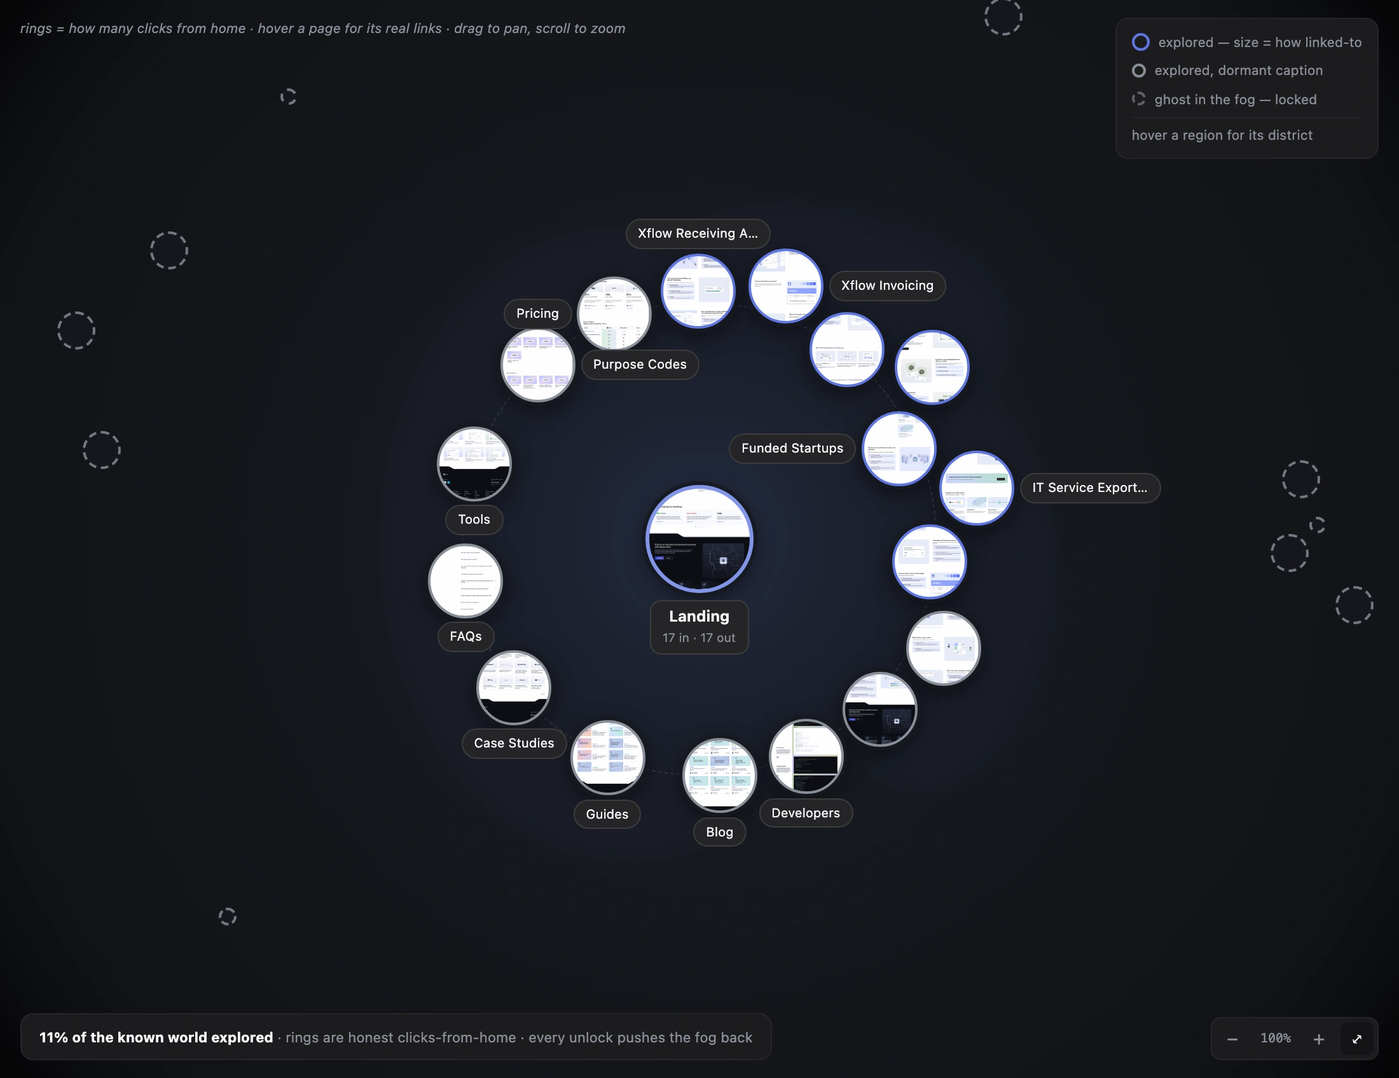
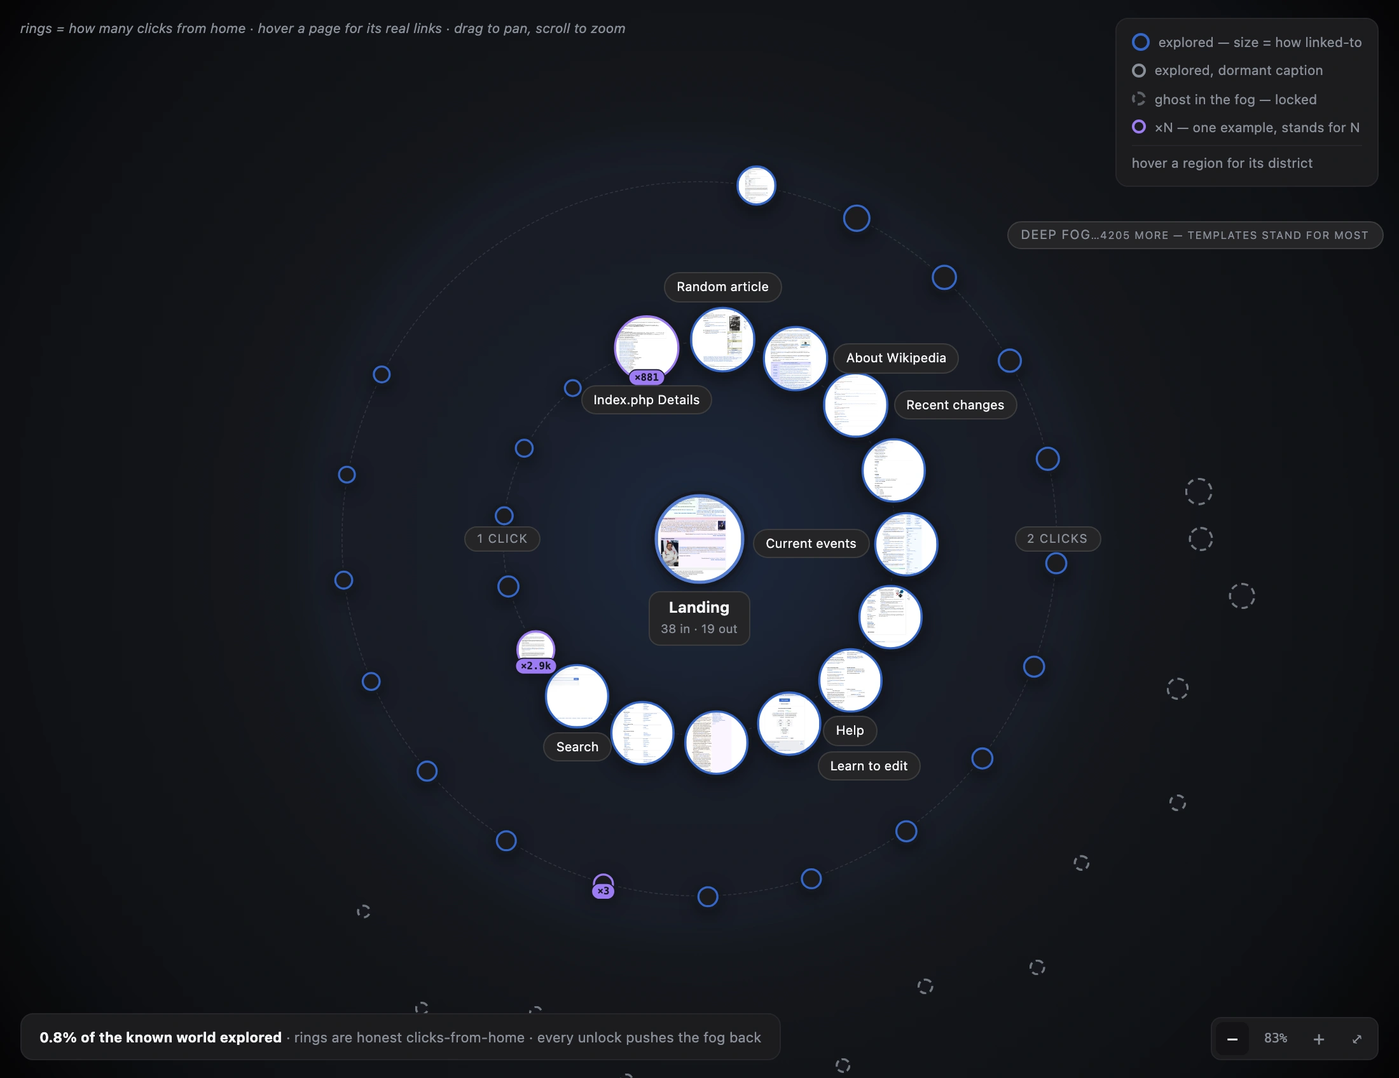
Landing page v1.3: the warm reshoot — wikipedia hero, described tiles (F1-F3)
The describe run took all six showcase workspaces to 100% described, which
removed the one thing keeping xflowpay in the hero slot, and 779ffbb shipped a
new map encoding that every tile now shows.

F1 — the hero is en.wikipedia.org @ 83%. v1.2 kept xflow because wikipedia lost
one of five criteria: "1 of 37 discs wears the accent", caused by described:0,
since the accent rim marks a page whose description exists. That cause is gone
(41/41; 33 of 36 rimmed). wikipedia wins rings, districts and the ghost frontier
outright and ties lamp and fog. Criterion 5 is contested rather than won — xflow
still leads on proportion (100% vs 91.7%) and on accent pixels at its own tier,
while wikipedia leads on absolute accent discs (33 vs 18) and at the matched 83%
tier — so the flip was Prateek's call on the full table, not a clean sweep.

Three of hero-probe.js's five criteria were reading selectors the product no
longer has (lamp, rings, fog), each failing as a silent false negative; v1.2's
fog row was scored by eye, not by the probe it was attributed to. Scored with a
corrected hero-probe2.js. The accent-pixel metric is defined in-tree rather than
inherited, since v1.2's script did not survive.

F2 — all 7 tiles reshot warm; the 5 workspaces that had matched the PRE-commit
package were synced to 779ffbb and rebuilt (descriptions preserved, frontier
totals byte-identical before/after, so no fog shrank when labels moved). Not one
[…]

diff --git a/docs/index.html b/docs/index.html
@@ -281,18 +281,20 @@
 
     </div>
 
-    <!-- The hero map is xflowpay, and v1.2 re-ran the choice rather than inheriting it: with the map-root
-         fix in, wikipedia's 37-page capture finally draws true rings, so both candidates went through the
-         same zoom sweep again. wikipedia wins on structure (two rings, district arcs, a deep-fog chip that
-         xflow's single-ring library cannot produce) and loses on accent presence — measured: 1 of its 37
-         discs wears the product's accent, against 8 of 18 here, because the accent ring marks a page whose
-         description has been written and that workspace has none. Evidence + the head-to-head pair in
-         prds/landing-page-v1.2-populated-BUILD-REPORT.md § F2. -->
+    <!-- The hero map is en.wikipedia.org as of v1.3, and the swap was decided on the same measurement that
+         kept xflow in v1.2. Back then wikipedia won on structure (two rings, district arcs, a deep-fog chip
+         a single-ring library cannot produce) and lost on accent presence: 1 of its 37 discs wore the
+         product's accent against 8 of 18 on xflow — because the accent ring marks a page whose description
+         has been written, and that workspace had none. The describe run removed that cause: it is 41/41
+         now, and 33 of its 36 discs wear the measured Wikipedia blue. The remaining three are the purple
+         ×N covering discs shipped in 779ffbb, not undescribed pages. Criterion 5 is contested rather than
+         won — xflow still leads on proportion (100% vs 91.7%) and on accent pixels at its own tier — and
+         the call to flip was made on that full table, in prds/landing-page-v1.3-warm-BUILD-REPORT.md § F1. -->
     <div class="heroshot">
       <figure class="shot">
         <img src="assets/hero-map.webp" width="2200" height="1696"
-             alt="The kit's dashboard on the Map tab: a real capture of xflowpay.com, with the landing page lit at the centre and seventeen captured pages ringed one click out, each drawn as a disc of its own screenshot, and dashed ghost pages scattered through the fog beyond them. The footer reads '11% of the known world explored · rings are honest clicks-from-home · every unlock pushes the fog back'.">
-        <figcaption>The Map, on a real capture of xflowpay.com — eighteen pages downloaded, one hundred and forty-six still ghosts in the fog. Rings are measured clicks from home.</figcaption>
+             alt="The kit's dashboard on the Map tab: a real capture of en.wikipedia.org, with the landing page lit at the centre reading '38 in · 19 out', and thirty-two further captured pages ringed across two rings labelled one click and two clicks, each drawn as a disc of its own screenshot and rimmed in the Wikipedia blue the kit measured. Three discs instead carry a purple ×N badge — one downloaded example standing for a whole template shape, the largest reading ×2.9k. Fourteen dashed ghost pages sit in the fog beyond, beside a chip reading 'DEEP FOG…4205 MORE — TEMPLATES STAND FOR MOST'. The footer reads '0.8% of the known world explored · rings are honest clicks-from-home · every unlock pushes the fog back'.">
+        <figcaption>The Map, on a real capture of en.wikipedia.org — forty-one pages downloaded, 4,593 still ghosts in the fog. Rings are measured clicks from home.</figcaption>
       </figure>
     </div>
   </section>
@@ -445,11 +447,11 @@
           <div class="body reveal">
             <h3>The working ledger</h3>
             <p class="quote">It borrows your product's own colour — observed, never guessed.</p>
-            <p>A journal down the side of the dashboard: what was captured, what your AI read, what it wrote, what changed. The top slot holds the one move worth making next — here, ten pages have landed that your AI hasn't read yet, so that is what it asks for, with the prompt ready to copy. And the accent the dashboard wears is lifted from the product you captured: the entry names the hex and how many pages it was seen on.</p>
+            <p>A journal down the side of the dashboard: what was captured, what your AI read, what it wrote, what changed. The top slot holds the one move worth making next, and it changes as the work lands — when pages are waiting to be read it asks for that, with the describe prompt ready to copy; here every page has been read, so it has moved on and asks for the first design instead. And the accent the dashboard wears is lifted from the product you captured: the entry names the hex and how many pages it was seen on.</p>
           </div>
           <div class="imgwrap">
-            <span class="fadeb"><img src="assets/tour-ledger.webp" width="680" height="990"
-                 alt="The working ledger: 'Library check — all clean — 3 more notes, nothing needed from you'; then 'NEXT · NEW PAGES WAITING — Let your AI read your 10 new pages', with a 'Copy the describe prompt' button; then 'Borrowed your product's color — #5E76E3, the dashboard now wears it, observed across 4 pages'. The rail continues below the frame."></span>
+            <span class="fadeb"><img src="assets/tour-ledger.webp" width="680" height="1002"
+                 alt="The working ledger: 'Library check — all clean — 3 more notes, nothing needed from you'; then 'NEXT · YOUR AI KNOWS YOUR PRODUCT NOW — Make your first thing — a wireframe on a real page, or a question answered from the library', with 'Copy a wireframe prompt' and 'Ask a question' buttons; then 'Borrowed your product's color — #5E76E3, the dashboard now wears it, observed across 4 pages'. The rail continues below the frame."></span>
           </div>
         </article>
 
@@ -461,58 +463,61 @@
        Seven real workspaces, seven real Map panes, each wearing the accent the kit measured in that
        product's own pages. At tile scale a map is its shape — discs, fog, accent — which is the point:
        nothing here is a mockup of a product, it is the kit's own output on seven different ones.
-       v1.2: all seven re-shot on POPULATED libraries (18–41 pages each, was 7–39), so a tile now shows
-       a full ring and a real frontier rather than a sparse cluster. Six of the seven come from fresh
-       captures in their own landing-shots-* workspaces; flipkart stays on its read-only fixture. Every
-       number in this section — page counts, hexes, percentages — is re-read from those workspaces at
-       build time; see prds/landing-page-v1.2-populated-BUILD-REPORT.md. -->
+       v1.3: all seven re-shot WARM — every one of these libraries is now 100% described (256 pages in
+       total), so the accent rim, which marks a page whose description has been written, is on essentially
+       every disc rather than a handful. The tiles also pick up 779ffbb (covered-shapes): a downloaded page
+       that stands for a template shape now retires that shape's ghost and wears a purple ×N badge instead
+       of the count being drawn twice. espncricinfo shows this hardest — 20 of its 37 discs are badged.
+       Six of the seven come from their own landing-shots-* workspaces; flipkart stays on its read-only
+       fixture. Every number in this section — page counts, badge counts, hexes, percentages — is re-read
+       from those workspaces at build time; see prds/landing-page-v1.3-warm-BUILD-REPORT.md. -->
   <section id="anyproduct">
     <div class="wrap">
       <p class="eyebrow">Any product</p>
       <h2>Seven products, seven maps.</h2>
-      <p class="lede">Point it at what you design for. Seven real captures in seven separate workspaces — a marketplace, a retailer, a sports site, a travel platform, an encyclopedia, a payments product, a developer platform — each dashboard wearing that product's own colour, observed rather than configured. Eighteen to forty-one pages in each library, and each map says out loud how little of its site that is: from eleven per cent down to nine-tenths of one. Same kit, same one script, nothing set per product.</p>
+      <p class="lede">Point it at what you design for. Seven real captures in seven separate workspaces — a marketplace, a retailer, a sports site, a travel platform, an encyclopedia, a payments product, a developer platform — each dashboard wearing that product's own colour, observed rather than configured. Eighteen to forty-one pages in each library, and each map says out loud how little of its site that is: from eleven per cent down to four-fifths of one. Same kit, same one script, nothing set per product.</p>
 
       <ul class="gal">
         <li>
           <img src="assets/tile-flipkart.webp" width="640" height="493"
-               alt="The kit's Map pane on a capture of flipkart.com: thirty-nine page discs in two labelled rings — one click and two clicks from home — around a lit centre, most of them outlined in the measured blue accent, with dashed ghost pages in the fog beyond and a footer reading '3% of the known world explored'.">
+               alt="The kit's Map pane on a capture of flipkart.com: thirty-nine page discs in two labelled rings — one click and two clicks from home — around a lit centre, thirty-three of them outlined in the measured blue accent and six badged ×N, where one downloaded page stands for a whole template shape, with dashed ghost pages in the fog beyond and a footer reading '3% of the known world explored'.">
           <span class="cap"><span class="sw" style="background:#2874F0"></span><b>flipkart.com</b><span class="hex">#2874F0</span></span>
         </li>
         <li>
           <img src="assets/tile-amazon.webp" width="640" height="493"
-               alt="The kit's Map pane on a capture of amazon.in: forty-one page discs packed into a dense ring around a lit centre, each disc its own captured screenshot, a further ring labelled two clicks, dashed ghost pages in the fog, and a footer reading '1% of the known world explored'.">
+               alt="The kit's Map pane on a capture of amazon.in: forty-one page discs packed into a dense ring around a lit centre, each disc its own captured screenshot, thirteen of them badged ×N where one downloaded page stands for a whole template shape, a further ring labelled two clicks, dashed ghost pages in the fog, and a footer reading '1% of the known world explored'.">
           <span class="cap"><span class="sw" style="background:#2162A1"></span><b>amazon.in</b><span class="hex">#2162A1</span></span>
         </li>
         <li>
           <img src="assets/tile-espncricinfo.webp" width="640" height="493"
-               alt="The kit's Map pane on a capture of espncricinfo.com: thirty-seven page discs ringing a lit centre with a second ring labelled two clicks, dashed ghost pages spread through a blue-tinted fog, and a footer reading '3% of the known world explored'.">
+               alt="The kit's Map pane on a capture of espncricinfo.com: thirty-seven page discs ringing a lit centre with a second ring labelled two clicks — twenty of them badged ×N, where one downloaded page stands for a whole template shape, several of those drawn small because few pages link to them, so this map carries a visible scatter of purple among the blue — dashed ghost pages spread through a blue-tinted fog, and a footer reading '3% of the known world explored'.">
           <span class="cap"><span class="sw" style="background:#0860C4"></span><b>espncricinfo.com</b><span class="hex">#0860C4</span></span>
         </li>
         <li>
           <img src="assets/tile-airbnb.webp" width="640" height="493"
-               alt="The kit's Map pane on a capture of airbnb.co.in: thirty-seven page discs ringing a lit centre, a second ring labelled two clicks, dashed ghost pages in the fog — and the whole fog glowing crimson, because that is the accent the kit measured in this product's own pages.">
+               alt="The kit's Map pane on a capture of airbnb.co.in: thirty-four page discs across two rings labelled one click and two clicks, with an arc reading 'not linked from home — 2 pages', eight discs badged ×N where one downloaded page stands for a whole template shape, dashed ghost pages in the fog — and the whole fog glowing crimson, because that is the accent the kit measured in this product's own pages.">
           <span class="cap"><span class="sw" style="background:#DA1249"></span><b>airbnb.co.in</b><span class="hex">#DA1249</span></span>
         </li>
         <li>
           <img src="assets/tile-wikipedia.webp" width="640" height="493"
-               alt="The kit's Map pane on a capture of en.wikipedia.org: thirty-seven page discs, pale because the pages themselves are, ringing a blue-ringed centre, a second ring labelled two clicks, dashed ghost pages in the fog, and a footer reading '0.9% of the known world explored'.">
+               alt="The kit's Map pane on a capture of en.wikipedia.org — the same library the hero shows, at a wider zoom: thirty-six page discs across two rings labelled one click and two clicks, thirty-three rimmed in the measured Wikipedia blue and three badged ×N, the largest reading ×2.9k, dashed ghost pages in the fog, and a footer reading '0.8% of the known world explored'.">
           <span class="cap"><span class="sw" style="background:#3366CC"></span><b>en.wikipedia.org</b><span class="hex">#3366CC</span></span>
         </li>
         <li>
           <img src="assets/tile-xflowpay.webp" width="640" height="493"
-               alt="The kit's Map pane on a capture of xflowpay.com: eighteen page discs in a single ring around a lit centre, several outlined in the measured indigo accent, dashed ghost pages in the fog, and a footer reading '11% of the known world explored' — the most-explored library of the seven, because it is the smallest site.">
+               alt="The kit's Map pane on a capture of xflowpay.com: eighteen page discs in a single ring around a lit centre, every one of them outlined in the measured indigo accent and the centre badged ×2, dashed ghost pages in the fog, and a footer reading '11% of the known world explored' — the most-explored library of the seven, because it is the smallest site.">
           <span class="cap"><span class="sw" style="background:#5E76E3"></span><b>xflowpay.com</b><span class="hex">#5E76E3</span></span>
         </li>
         <li>
           <img src="assets/tile-github.webp" width="640" height="493"
-               alt="The kit's Map pane on a capture of github.com: forty page discs in a dense ring around a lit centre, most of them dark because the product's own pages are, dashed ghost pages in the fog, and a footer reading '5% of the known world explored'.">
+               alt="The kit's Map pane on a capture of github.com: forty page discs in a dense ring around a lit centre, most of them dark because the product's own pages are, thirty-three rimmed in the measured link blue and eight badged ×N where one downloaded page stands for a whole template shape, dashed ghost pages in the fog, and a footer reading '5% of the known world explored'.">
           <span class="cap"><span class="sw" style="background:#0969DA"></span><b>github.com</b><span class="hex">#0969DA</span></span>
         </li>
       </ul>
 
       <p class="note" style="margin-top:18px">Every hex above was <b>measured</b>, not chosen: it is the most-used colour in that product's own captured pages that a UI accent could plausibly be, and the dashboard then wears it. Which is also why six of these seven hexes sit inside a twenty-degree band of blue and only airbnb's crimson doesn't — a palette someone picked would be prettier than this, and that is rather the point. Nothing was configured per product — where a product's colour can't clear the dashboard's contrast floor, the kit lightens it just enough and records that it did, which is why amazon.in's measured <code>#2162A1</code> paints as <code>#2367A9</code>. Where no colour qualifies, no accent is recorded at all and the dashboard keeps its own indigo — absent rather than invented.</p>
 
-      <p class="note" style="margin-top:12px">These maps are shown small on purpose. At this size a captured product is only its shape — how many pages, how far from home, how much fog — which is all this section claims. Every full-size dashboard view on this page is of one product, <code>xflowpay.com</code>, captured by the person who built the kit.</p>
+      <p class="note" style="margin-top:12px">These maps are shown small on purpose. At this size a captured product is only its shape — how many pages, how far from home, how much fog — which is all this section claims. Every map here has also been <b>read</b>: all 256 pages across the seven libraries carry a description, written by an AI and labelled <code>method: ai</code> in the library so it is never mistaken for a captured fact. That is what the accent rim marks — a page whose description exists — which is why these maps are warm where earlier versions of this page were pale. A purple <code>×N</code> disc is described too; it simply also stands for a template shape, so it wears that badge instead. The hero at the top of this page is the wikipedia library shown large; every other full-size dashboard view here is one product, <code>xflowpay.com</code>, captured by the person who built the kit.</p>
 
       <p class="note" style="margin-top:12px">Nor does every page yield. Following links is all the kit does, so a page that only opens behind a sign-in, or that answers a link with a soft 404, doesn't come home: amazon.in's run recorded seven of those — six <code>auth-redirect</code>, one <code>soft-404</code> — each with its reason, in the same file that lists what did come home. The maps above are what one read-only crawl reached, not a claim that every page type is reachable.</p>
     </div>

diff --git a/ux-copy.md b/ux-copy.md
@@ -1,5 +1,64 @@
 # UX copy canon
 
+## 2026-07-30 — landing v1.3 (the warm reshoot: wikipedia hero + described tiles)
+
+`prds/landing-page-v1.3-warm.md`. **Every locked v1 string is untouched** — re-checked programmatically by
+`gates.js` (0 locked strings missing, 0 banned words present). The describe run took all six showcase
+workspaces to 100% described, and `779ffbb` (covered-shapes) shipped a new map encoding; between them they
+forced this round's copy. As in v1.2, nothing was reworded for taste.
+
+**The hero changed product.** v1.2 kept xflowpay because wikipedia lost one of five criteria —
+`1 of its 37 discs wears the product's accent` — and the cause was `described: 0`, since the accent rim
+marks a page whose description has been written. That cause is gone: 41/41 described, 33 of 36 discs
+rimmed. Criterion 5 is now *contested* rather than won (xflow still leads on proportion, 100% vs 91.7%,
+and on accent pixels at its own tier); the flip was decided on the full table in the v1.3 build report § F1.
+
+- was: `The Map, on a real capture of xflowpay.com — eighteen pages downloaded, one hundred and forty-six still ghosts in the fog. Rings are measured clicks from home.`
+- now: `The Map, on a real capture of en.wikipedia.org — forty-one pages downloaded, 4,593 still ghosts in the fog. Rings are measured clicks from home.`
+
+Read from `landing-shots-wikipedia/design-context/registry.json`: `identity.downloaded: 41`,
+`identity.found: 4634`, `frontier.total: 4593`. The hero alt text was rewritten to describe that frame —
+two rings labelled one/two clicks, three purple `×N` discs (largest `×2.9k`), 14 ghosts, the
+`DEEP FOG…4205 MORE` chip, and the `0.8% of the known world explored` footer.
+
+**One string was not stale but FALSE, and the describe run is what falsified it.** The ledger's top slot is
+state-dependent: with pages unread it asks for the describe run; with none unread it moves on. `landing-shots`
+went 8/18 → 18/18, so the panel no longer says what the page said it says.
+
+| Where | was | now | Read from |
+|---|---|---|---|
+| Tour · ledger body | `here, ten pages have landed that your AI hasn't read yet, so that is what it asks for, with the prompt ready to copy` | `it changes as the work lands — … here every page has been read, so it has moved on and asks for the first design instead` | the rail's own top card in the reshot render |
+| Tour · ledger alt | `NEXT · NEW PAGES WAITING — Let your AI read your 10 new pages`, `Copy the describe prompt` | `NEXT · YOUR AI KNOWS YOUR PRODUCT NOW — Make your first thing`, `Copy a wireframe prompt` / `Ask a question` | same render |
+| Gallery lede | `down to nine-tenths of one` | `down to four-fifths of one` | wikipedia's stats line, `0.9%` → `0.8%` (frontier grew to 4,593) |
+
+**All seven tile alt texts rewritten** — each now states how many discs wear the accent and how many carry
+a `×N` badge, because that encoding is new and visible at tile scale. Badge counts read from each running
+dashboard by `badge-probe.js`: flipkart 6 · amazon 13 · espncricinfo 20 · airbnb 8 · wikipedia 3 ·
+xflowpay 1 · github 8. espncricinfo's says out loud that its map `carries a visible scatter of purple among
+the blue` — 20 badges on 37 discs, checked against the tile at its shipped display size rather than at
+full resolution, where the badges read much louder than a reader will ever see them.
+
+**One note corrected, one claim added.** The gallery's closing note claimed `Every full-size dashboard view
+on this page is of one product, xflowpay.com` — the hero swap made that false, so it now names the hero
+separately. The brief's optional "AI has read this library" line is added in the same note, phrased so it
+cannot be read as *bright ring = read*:
+
+> `Every map here has also been read: all 256 pages across the seven libraries carry a description, written by an AI and labelled method: ai in the library so it is never mistaken for a captured fact. That is what the accent rim marks — a page whose description exists — which is why these maps are warm where earlier versions of this page were pale. A purple ×N disc is described too; it simply also stands for a template shape, so it wears that badge instead.`
+
+The qualifier is load-bearing, not hedging: espncricinfo is 37/37 described but only 18 of its 37 discs are
+rimmed, because 19 wear the badge instead. Without the last sentence the line would imply those 19 are
+unread. Claims-audit row and evidence in the build report § F3.
+
+**Unchanged and worth stating:** all seven tile caption hexes (`flipkart.com · #2874F0` ·
+`amazon.in · #2162A1` · `espncricinfo.com · #0860C4` · `airbnb.co.in · #DA1249` ·
+`en.wikipedia.org · #3366CC` · `xflowpay.com · #5E76E3` · `github.com · #0969DA`) — all re-verified against
+`tokens.json.brand.seed`, all still `source: "observed"`. The Design-language body (`×32,939` across
+eighteen pages, accent `×141` across four) and its alt (`41 single-page values`, 21 swatches,
+`#E4E9FF ×5 · 5p`) re-read and unchanged. The `tour-map` alt is unchanged — every claim in it
+(`13 pages share this layout`, `linked from 18 pages`, `Get one example`, `Download all 13`) re-verified
+verbatim against the reshot render. Both v1.2 disclosures (the 19.7° blue band; amazon's seven
+non-yielding pages) re-verified and kept. Headline, sub, principles strip and §§1–4, 6–8 as v1.2 left them.
+
 ## 2026-07-29 — cumulative capture record (M1–M2)
 
 `prds/v1-fix-manifest-record.md`. Two new/corrected locked strings, both surfacing counts that vary at
